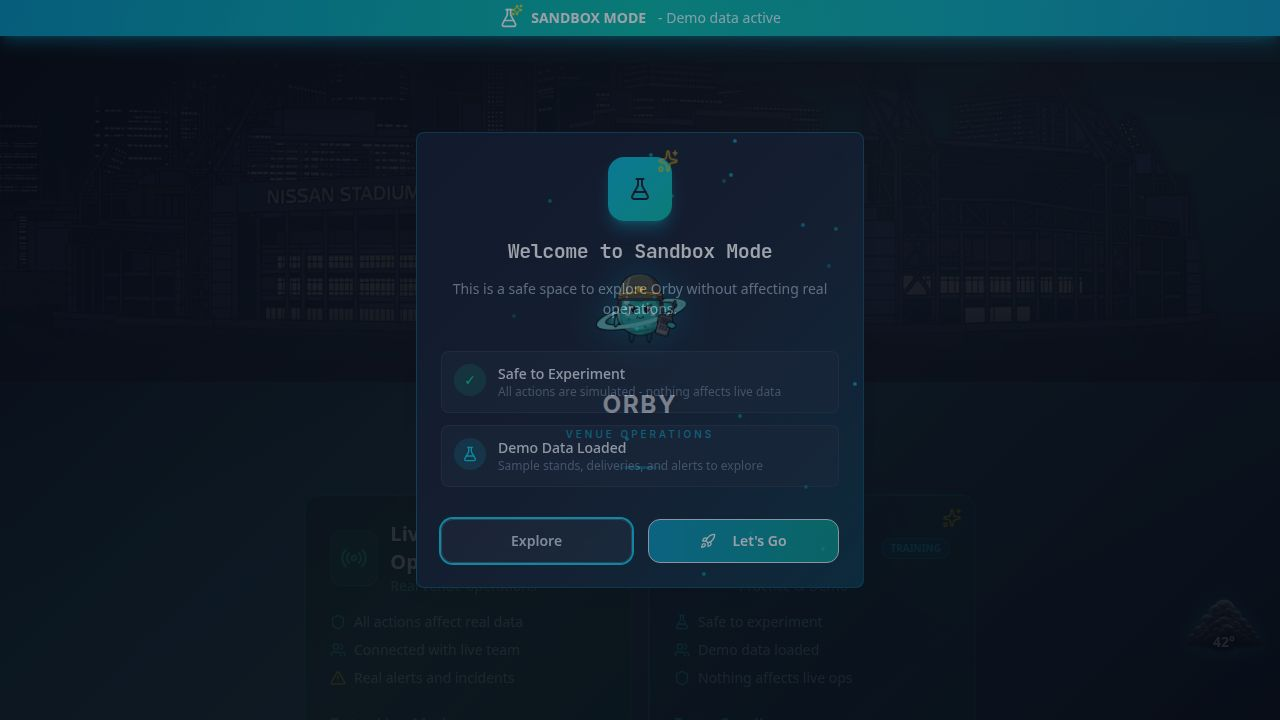
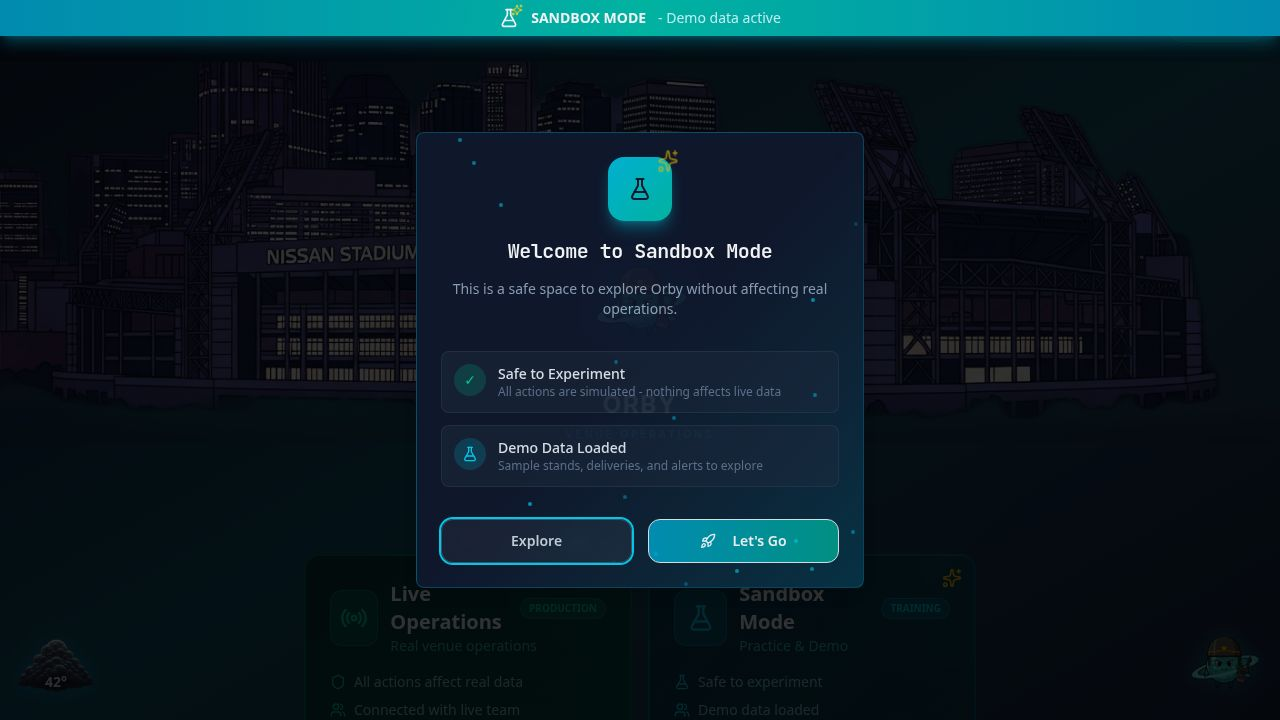
Swap weather and AI button positions and move them closer to corners
Update `FloatingWeatherButton.tsx` and `OrbyAIChat.tsx` to reposition buttons to `bottom-4 left-4` and `bottom-4 right-4` respectively.

Replit-Commit-Author: Agent
Replit-Commit-Session-Id: 09c6e64f-5e73-4a17-a379-da0b0c838d13
Replit-Commit-Checkpoint-Type: full_checkpoint
Replit-Commit-Event-Id: 3e528c0e-ccd6-41c1-9a7b-f2064f24d2f1
Replit-Commit-Screenshot-Url: https://storage.googleapis.com/screenshot-production-us-central1/8e2e544d-95be-406c-98e2-212d479e96fc/09c6e64f-5e73-4a17-a379-da0b0c838d13/O2fH4jA

diff --git a/client/src/components/FloatingWeatherButton.tsx b/client/src/components/FloatingWeatherButton.tsx
@@ -156,7 +156,7 @@ export default function FloatingWeatherButton() {
     <>
       <motion.button
         onClick={() => setIsExpanded(true)}
-        className="fixed bottom-14 right-4 z-50 cursor-pointer"
+        className="fixed bottom-4 left-4 z-50 cursor-pointer"
         initial={{ scale: 0, opacity: 0 }}
         animate={{ scale: 1, opacity: 1 }}
         transition={{ type: "spring", stiffness: 260, damping: 20, delay: 0.5 }}

diff --git a/client/src/components/OrbyAIChat.tsx b/client/src/components/OrbyAIChat.tsx
@@ -301,7 +301,7 @@ export function OrbyAIChat() {
         initial={{ scale: 0, opacity: 0 }}
         animate={{ scale: 1, opacity: 1 }}
         transition={{ delay: 1, type: 'spring' }}
-        className="fixed bottom-14 left-4 z-50"
+        className="fixed bottom-4 right-4 z-50"
       >
         <motion.button
           onClick={() => setIsOpen(true)}
